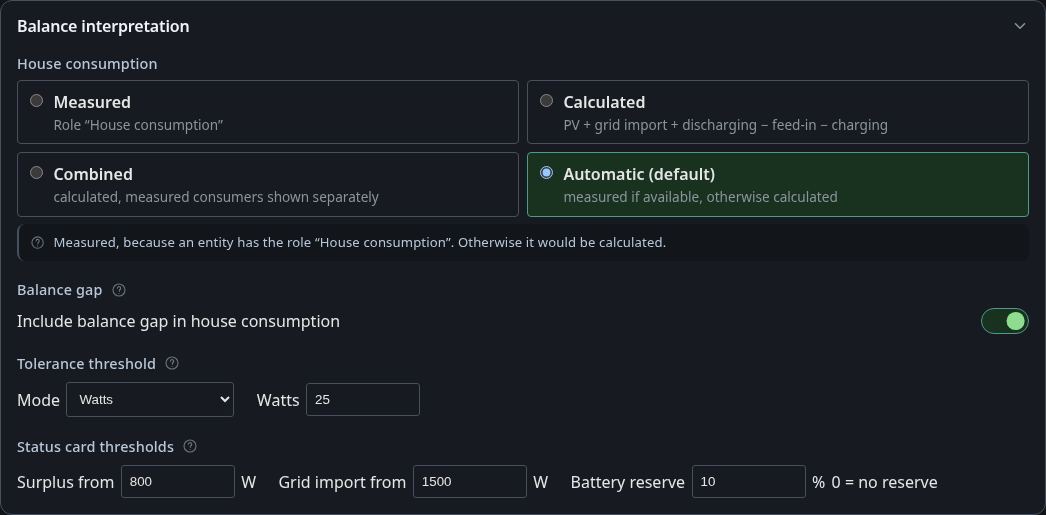
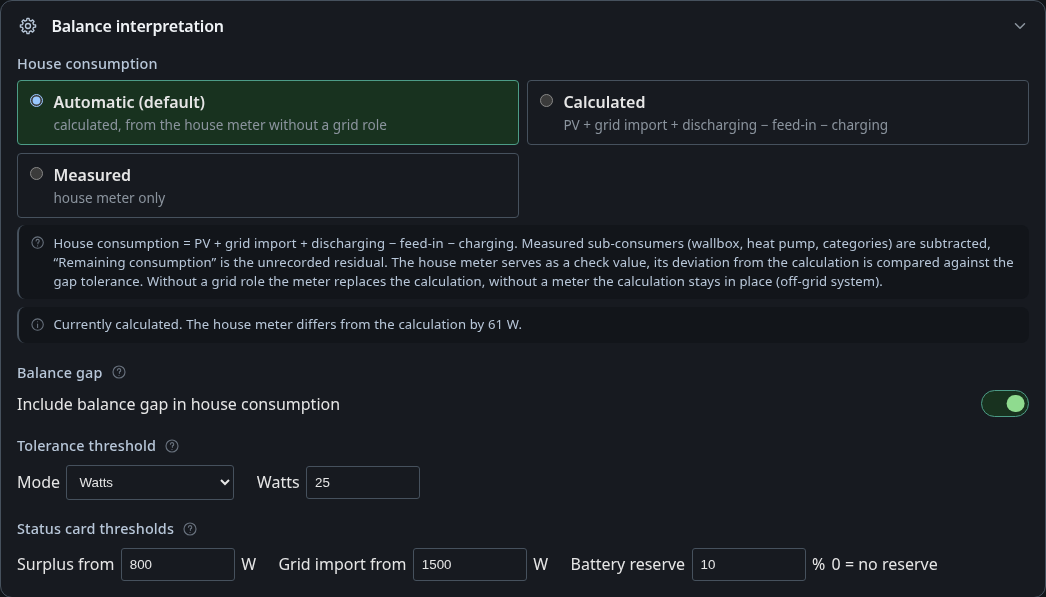
docs(dashboard): refresh outdated screenshots and add the MQTT card images
History, balance interpretation, versions and MQTT predate their latest
features. The MQTT tab now shows the sensors, metrics and bridge cards as
separate images in the matching sections.

diff --git a/docs/dashboard/settings-mqtt.md b/docs/dashboard/settings-mqtt.md
@@ -26,6 +26,8 @@ once something is assigned to its role or category, so the list stays empty
 until then. House load measured and House load calculated, offered once a house meter is assigned. Energy Node Companion uses the measured one for the house meter history. All of them are on by default. Deselect a sensor to have the
 dashboard remove it from Home Assistant again, and select it to bring it back.
 
+![Home Assistant and simulation card with the additional sensors](../images/dashboard-settings-mqtt-sensors.png)
+
 A sensor is removed as well when its category is deleted or unassigned. This
 also works after a restart of the dashboard, because the announced sensors are
 remembered in `energydiscovery/announced.json`. In Home Assistant each category
@@ -47,6 +49,8 @@ from the selection to stop publishing it and add it again to resume. Changes are
 saved immediately. Guests see the selection but cannot change it. Changing it
 needs a login with configuration rights over HTTPS.
 
+![Published system metrics](../images/dashboard-settings-mqtt-metrics.png)
+
 ## Bridge to the main site
 
 Users who can configure the bridge see the same steps at the top of the bridge section.
@@ -65,6 +69,8 @@ Users who can configure the bridge see the same steps at the top of the bridge s
    interrupts all MQTT connections of this device, including the dashboard's.
 7. In the Mosquitto bridge status, check that the bridge connection shows as
    connected and that "Installed = saved" shows yes.
+
+![Mosquitto bridge status](../images/dashboard-settings-mqtt-bridge.png)
 
 ### If applying fails
 
